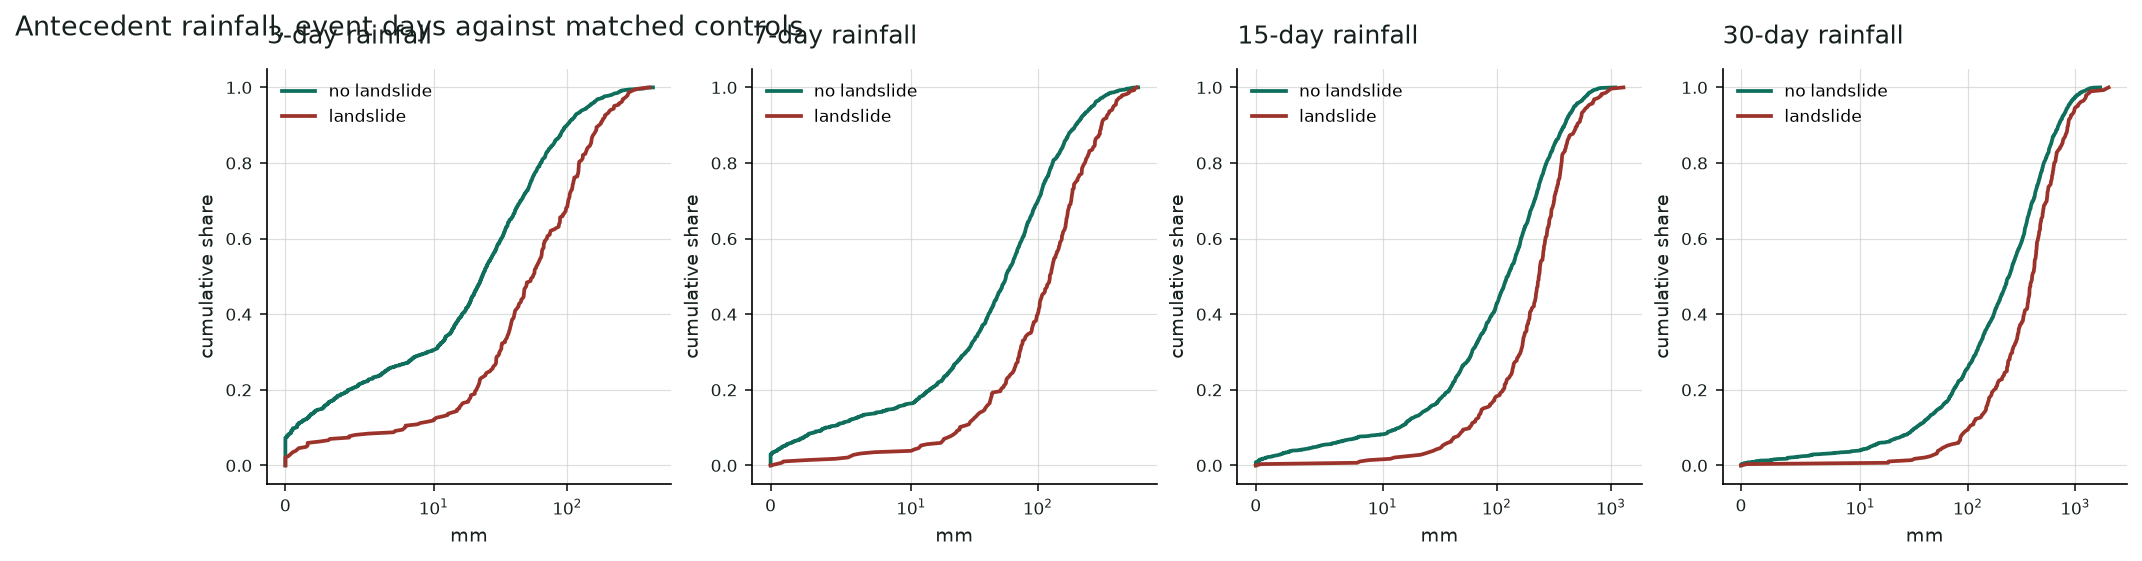
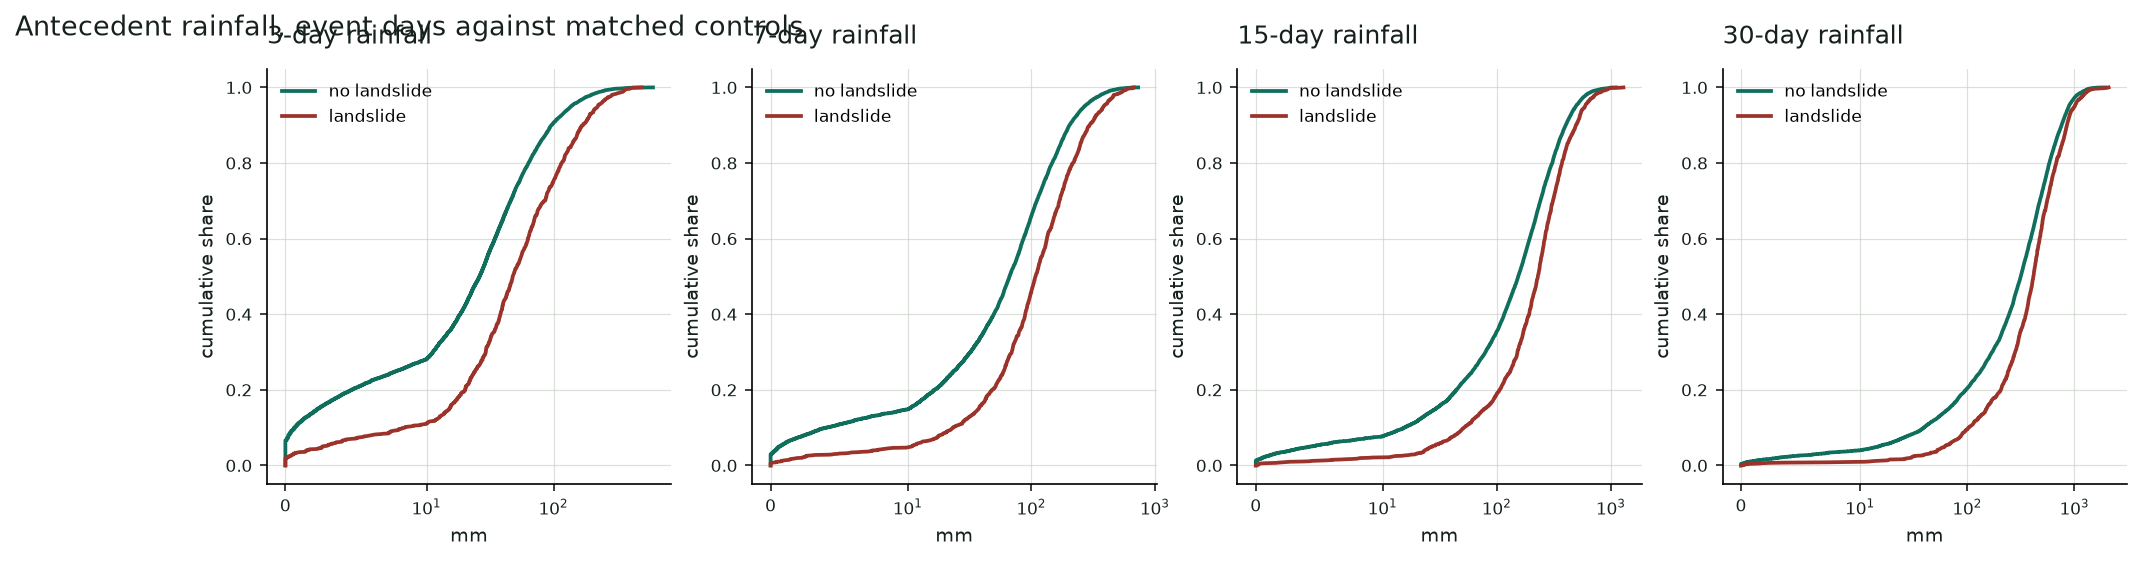
docs: record every open item, and refresh the EDA at 74% coverage
Adds section 20 to the walkthrough. A project that does not list its own gaps
is claiming it has none, so all of them are now tabulated with a blocker and
what would close it — quota-blocked, schema-declared-but-empty, deliberately
scoped out, or waiting on a person.

The audit that produced it found three warehouse objects that are declared in
01_schema.sql, carry explanatory comments, and are written by nothing:

    dim_road                       0 rows, no writer anywhere
    fact_exposure.exposure_score   7,627 NULL — computed at scoring time instead
    etl_run_log                    0 rows, created by 00 and referenced nowhere

None breaks anything downstream, which is exactly why they survived unnoticed.
A commented column that nothing fills is worse than no column, because the
comment reads as a description of behaviour that does not exist.

Also re-ran the EDA on the 8,837-row matrix, which sharpened a limitation
rather than restating it. The intensity-duration gate passes: median intensity
falls from 16 mm/day at 3 days to 15 at 15 — the decreasing power law the
literature reports — and antecedent rainfall separates at 108 mm against 66 mm.
So the data does resolve duration and antecedent build-up. What it cannot see
is the sub-daily burst. Section 19 now makes that narrower claim, which is the
one the evidence actually supports.

diff --git a/imarticus projects/Capstone 1/docs/slopewatch-walkthrough.html b/imarticus projects/Capstone 1/docs/slopewatch-walkthrough.html
@@ -234,6 +234,7 @@ svg.dgm{display:block; width:100%; height:auto; color:var(--ink); min-width:30re
     <li><a href="#s17"><span class="num">17</span><span>How much data is enough</span></a></li>
     <li><a href="#s18"><span class="num">18</span><span>Where it stands</span></a></li>
     <li><a href="#s19"><span class="num">19</span><span>Limitations</span></a></li>
+    <li><a href="#s20"><span class="num">20</span><span>Open items</span></a></li>
     <li class="gap"></li>
     <li><a href="#sA"><span class="num">A</span><span>Constants</span></a></li>
     <li><a href="#sB"><span class="num">B</span><span>Files and commands</span></a></li>
@@ -1320,7 +1321,7 @@ leakage audit passed</code></pre>
 <tbody>
 <tr><td><code>v_weather_rolling</code></td><td>rain over 3/7/15/30 days, soil-moisture lags, per-cell rainfall percentile</td><td>two passes — MySQL refuses to rank over a window function directly</td></tr>
 <tr><td><code>v_event_detail</code></td><td>events joined to terrain and elevation band</td><td>5 bands: &lt;500, &lt;1000, &lt;2000, &lt;3000, 3000+</td></tr>
-<tr><td><code>v_intensity_duration</code></td><td>mean mm/day against duration, the classic landslide-hydrology diagnostic</td><td>a validation gate on the input data, <em>not</em> a model feature</td></tr>
+<tr><td><code>v_intensity_duration</code></td><td>mean mm/day against duration, the classic landslide-hydrology diagnostic</td><td>a validation gate on the input data, <em>not</em> a model feature — <span class="pass">it passes</span>, see §19</td></tr>
 <tr><td><code>v_cell_neighbours</code></td><td>the 3×3 block around each hill cell</td><td>derived from grid index arithmetic, not spatial joins</td></tr>
 <tr><td><code>v_alert_precision</code></td><td>yesterday's high/critical alerts against what actually happened</td><td>4-day verification window for reporting lag</td></tr>
 <tr><td><code>v_settlements_at_risk</code></td><td>named places in at-risk cells, largest first</td><td>"forty settlements" ranks a cell; it does not tell a team where to go</td></tr>
@@ -1593,6 +1594,8 @@ passed with 1 warnings — read them before presenting</code></pre>
 <p><code>fact_risk_pred</code> still holds output from the model that had the elevation leak. Streamlit and Power BI both read it. Stage 08 must run against the current model before either interface is shown to anyone — it is the one artefact in the repository that would actively misrepresent the work.</p>
 </div>
 
+<p>Every outstanding item, with its blocker and what would close it, is tabulated in <a href="#s20">§20</a>.</p>
+
 <h4>The sequence when the backfill lands</h4>
 <pre><code>05_fetch_weather.py --load-only
 06_build_features.py
@@ -1609,6 +1612,8 @@ passed with 1 warnings — read them before presenting</code></pre>
 <h3>Daily sums cannot see the trigger</h3>
 <p>This is the largest cap on performance and it is a data limit, not a model limit. Landslides respond to sub-daily rainfall <em>intensity</em> — millimetres per hour. The model sees <code>precipitation_sum</code>, a 24-hour total. A three-hour cloudburst and a day of steady drizzle can be the same number here and are completely different on a hillside. No model class fixes this; only hourly data would.</p>
 
+<p><strong>Be precise about which axis is missing.</strong> The intensity-duration gate in §13 was run against the 8,837-row matrix and it <em>passes</em>: median intensity falls from 16 mm/day at 3 days to 15 mm/day at 15 days — the decreasing power-law shape the landslide literature reports. Antecedent rainfall separates cleanly too, a 7-day median of <strong>108 mm before an event against 66 mm for controls</strong>. So the data does resolve the <em>duration</em> axis and the antecedent build-up. What it cannot resolve is the sub-daily burst that tips an already-saturated slope. That is a narrower and more defensible claim than "the weather data is too coarse", and it is the one the evidence supports.</p>
+
 <h3>11 km cells against 1–2 km orographic rainfall</h3>
 <p>The grid matches ERA5-Land's native resolution, so there is no false precision — but in Himalayan terrain rainfall varies sharply over one or two kilometres, and the predictor frequently does not see the rain that caused the slide.</p>
 
@@ -1620,6 +1625,69 @@ passed with 1 warnings — read them before presenting</code></pre>
 
 <h3>Not an operational warning system</h3>
 <p>No hourly nowcast. No validation against IMD or GSI bulletins. No human in the loop. It is a screening aid that ranks cells for inspection, and the model card states the out-of-scope uses explicitly.</p>
+
+<hr>
+
+<!-- ══════════════════════════════ 20 ══════════════════════════════ -->
+<h2 id="s20"><span class="h-num">20</span>Open items</h2>
+
+<p class="lede">Everything still outstanding, why, and what would close it. Recorded rather than left implicit, because a project that does not list its own gaps is claiming it has none.</p>
+
+<h3>Blocked on the API quota</h3>
+
+<p>Open-Meteo's allowance refills on a rolling window. Today's spend is <strong>10,010 call units against a 9,500 guideline</strong>, so both rows below are waiting on the same clock and nothing else.</p>
+
+<div class="tw">
+<table>
+<thead><tr><th>Item</th><th>State</th><th>What closes it</th></tr></thead>
+<tbody>
+<tr><td>Weather backfill</td><td class="warn">71% — 3,471 windows pending</td><td>~4 more hours of refilled quota. The daemon is running and resumes on its own.</td></tr>
+<tr><td><code>fact_risk_pred</code></td><td class="fail">two models stale</td><td><code>08_score.py</code>, which needs forecast quota from the same allowance. Until then the risk map serves output from the model that still had the elevation leak.</td></tr>
+</tbody>
+</table>
+</div>
+
+<h3>Declared in the schema, never populated</h3>
+
+<p>Three warehouse objects exist in <code>sql/01_schema.sql</code>, carry explanatory comments, and are written by nothing. None of them breaks anything downstream — which is precisely why they survived unnoticed.</p>
+
+<div class="tw">
+<table>
+<thead><tr><th>Object</th><th>Rows</th><th>What the schema claims</th><th>What actually happens</th></tr></thead>
+<tbody>
+<tr><td><code>dim_road</code></td><td class="n">0</td><td>"so the exposure precompute can be traced back to named features"</td><td><code>09_build_exposure.py</code> writes <code>dim_settlement</code> (75,202 rows) and <code>fact_exposure</code>, but computes road length straight from the shapefiles without persisting the individual roads. Settlements are traceable; roads are not.</td></tr>
+<tr><td><code>fact_exposure.exposure_score</code></td><td class="n">7,627 NULL</td><td>"normalised 0-1, used in prioritisation"</td><td>Computed in memory at scoring time by <code>scoring.exposure_score()</code> and folded straight into <code>priority_score</code>. The column is a leftover from an earlier design and is read by nothing.</td></tr>
+<tr><td><code>etl_run_log</code></td><td class="n">0</td><td>per-step status, row counts and timings for operational observability</td><td>Created by <code>00_init_db.py</code> and referenced nowhere else. Stage timing goes to the log files instead.</td></tr>
+</tbody>
+</table>
+</div>
+
+<p>The honest options are to populate them or to drop them. Leaving a commented column that nothing fills is the worst of the three, because the comment reads as a description of behaviour that does not exist.</p>
+
+<h3>Scoped out, deliberately</h3>
+
+<div class="tw">
+<table>
+<thead><tr><th>Item</th><th>Why not now</th><th>What it would take</th></tr></thead>
+<tbody>
+<tr><td>Hourly rainfall intensity</td><td>The only lever left on the score ceiling — see §19 — but it competes for the same quota the backfill is still consuming, and it cannot be evaluated without a stable daily baseline to compare against.</td><td><code>hourly=precipitation</code> from the same archive endpoint, collapsed to max-1h and max-6h plus intensity-duration position. Roughly a day of work plus a fresh quota budget, run as a v2 with the daily model as control.</td></tr>
+<tr><td>Ground-truth validation</td><td>No access to IMD or GSI bulletins for the study period.</td><td>A second label source, which would also let the reporting bias in §05 be measured rather than only stated.</td></tr>
+<tr><td>Sub-cell resolution</td><td>An 11 km cell is set by ERA5-Land and by the catalogue's 5–25 km positional error. Going finer would produce confident predictions the labels cannot support.</td><td>Higher-resolution reanalysis and a better-located event catalogue. Neither is available free.</td></tr>
+</tbody>
+</table>
+</div>
+
+<h3>Waiting on a person, not a machine</h3>
+
+<div class="tw">
+<table>
+<thead><tr><th>Item</th><th>State</th></tr></thead>
+<tbody>
+<tr><td>Push to <code>origin/main</code></td><td>Six commits sit local-only. The remote exists. This is a one-command decision that has not been asked for.</td></tr>
+<tr><td>Demo the risk map</td><td>Should not happen until <code>08_score.py</code> has run. It is the one artefact that would actively misrepresent the work.</td></tr>
+</tbody>
+</table>
+</div>
 
 <hr>
 
